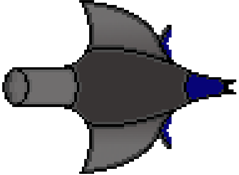
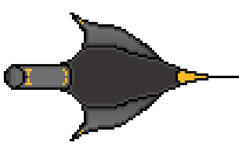
Ships work, here is the new status

Changed region(s): [[0.0, 0.0, 1.0, 1.0]]

diff --git a/Bay.cs b/Bay.cs
@@ -1,0 +1,74 @@
+using Godot;
+using System;
+public class Bay : ColorRect{
+   private static Sprite temp;
+   private static Ship ship;
+   private int bayNum;
+   private Control control;
+   public bool inBounds(int x1, int y1){
+      return RectPosition.x<=x1 && x1<=(RectPosition.x + RectSize.x) && RectPosition.y<=y1 && y1<=(RectPosition.y + RectSize.y);
+   }
+   public override void _Ready(){
+      control = GetNode<Control>("/root/Control");
+   }
+   public void onButtonPressed(){
+      temp = new Sprite{Texture = GD.Load<Texture>("res://Ship1.png")};
+      temp.MoveLocalY(RectPosition.y+71);
+      temp.MoveLocalX(RectPosition.x+125);
+      ship = new Ship(1,null);
+   }
+   public void on2Pressed(){
+      temp = new Sprite{Texture = GD.Load<Texture>("res://Ship2.png")};
+      temp.MoveLocalY(RectPosition.y+71);
+      temp.MoveLocalX(RectPosition.x+125);
+      ship = new Ship(2,null);
+   }
+   public void on5Pressed(){
+      temp = new Sprite{Texture = GD.Load<Texture>("res://Ship5.png")};
+      temp.MoveLocalY(RectPosition.y+71);
+      temp.MoveLocalX(RectPosition.x+125);
+      ship = new Ship(5,null);
+   }
+   public void onMouseEnter(){
+      if(temp != null){
+         control.AddChild(temp);
+      }
+   }
+   public void onMouseExit(){
+      if(control.GetChildCount() !=0)
+         control.RemoveChild(temp);
+   }
+    public override void _Process(float delta){
+      Generate temp = GetNode<Generate>("/root/Control/Generate");
+      if(Input.IsActionJustPressed("click") && ship != null){
+         if(inBounds((int)GetViewport().GetMousePosition().x, (int)GetViewport().GetMousePosition().y)){
+            GD.Print(RectPosition.y);
+            switch (ship.getType()){
+                case 1: 
+                  if(temp.build(10))//attempts to build a ship for cost of 10
+                     genShip();
+                  break;
+                case 2:
+                  if(temp.build(15))//attempts to build a ship for cost of 15
+                     genShip();
+                  break;
+               case 5:
+                  if(temp.build(20))//attempts to build a ship for cost of 20
+                     genShip();
+                  break;
+            }
+         }
+      }
+   }
+   public void genShip(){
+      ulong objID = ship.GetInstanceId();
+      ship = (Ship) GD.InstanceFromId(objID);
+      Ship newship = (Ship)ship.Clone();
+      newship.MoveLocalY(RectPosition.y+71);
+      newship.MoveLocalX(RectPosition.x+125);
+      control.AddChild(newship); 
+      GD.Print("Ship hasth been sumoned");
+      ship = null;
+      temp.Texture = null;
+   }
+}

diff --git a/Ships/Ship.cs b/Ships/Ship.cs
@@ -1,0 +1,41 @@
+using System;
+using System.Linq.Expressions;
+using Godot;
+public class Ship : Sprite, ICloneable{
+    private int Type;
+    private LambdaExpression Method;
+    private int speed;
+    public Ship(int type, LambdaExpression method){
+        Type = type;
+        Method = method;
+        switch (type){
+            case 1:
+                speed = 10;
+                break;
+            case 2:
+                speed = 15;
+                break;
+            case 5:
+                speed = 5;
+                break;
+        }
+    }
+    public override void _Ready(){
+        Texture = GD.Load<Texture>("res://Ship" + Type + ".png");
+    }
+//variable movement add
+ // Called every frame. 'delta' is the elapsed time since the previous frame.
+    public override void _Process(float delta){
+        MoveLocalX(speed); 
+        if(Position.x > OS.WindowSize.x)
+           QueueFree();
+    }
+    public int getType(){
+        return Type;
+    }
+
+    public object Clone()
+    {
+        return new Ship(Type, Method);
+    }
+}
